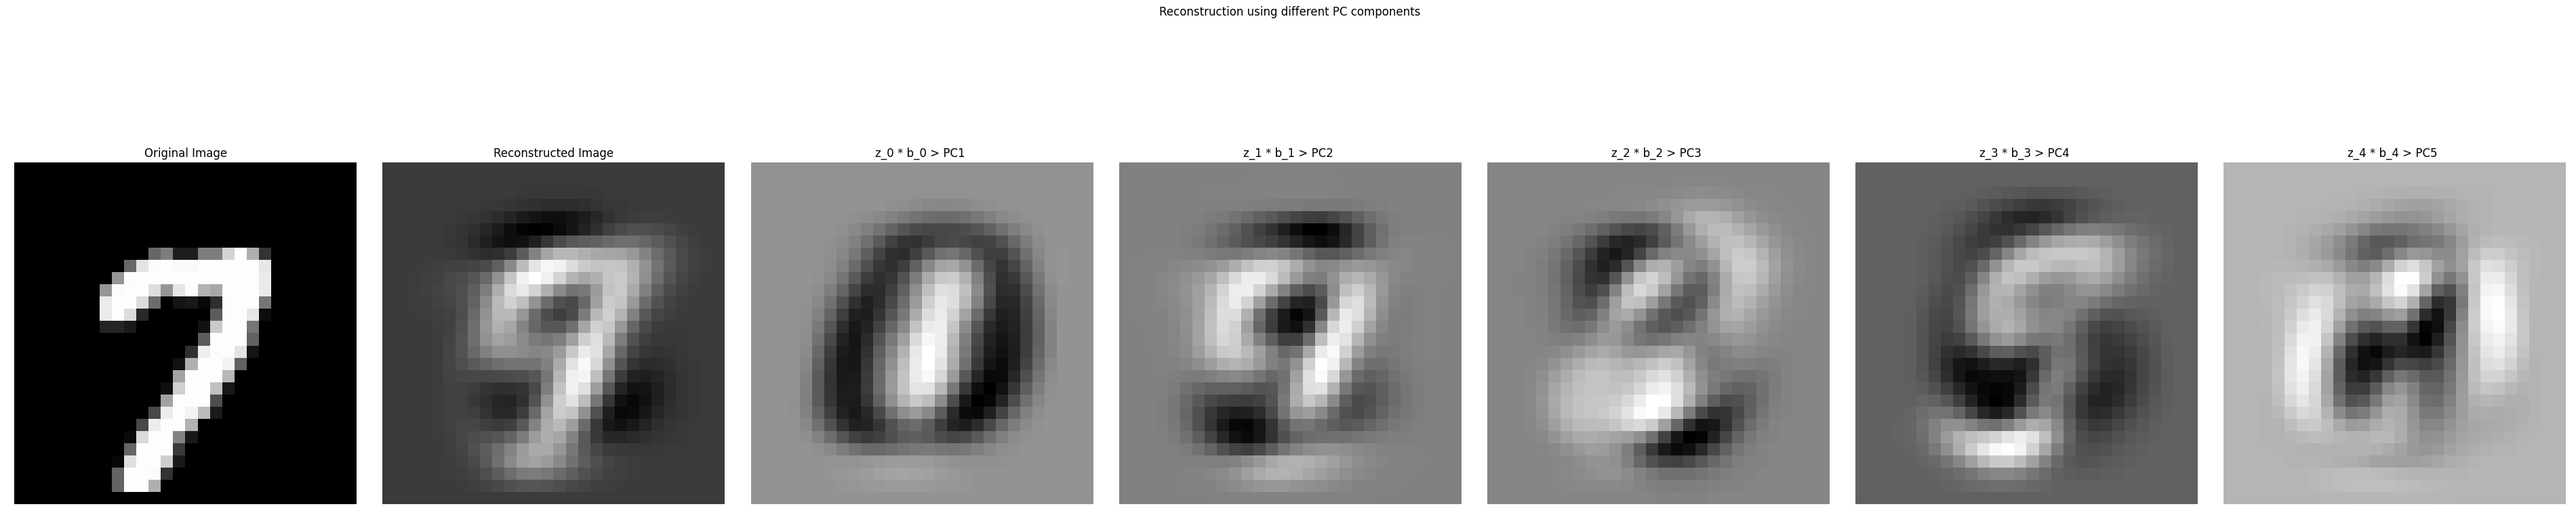
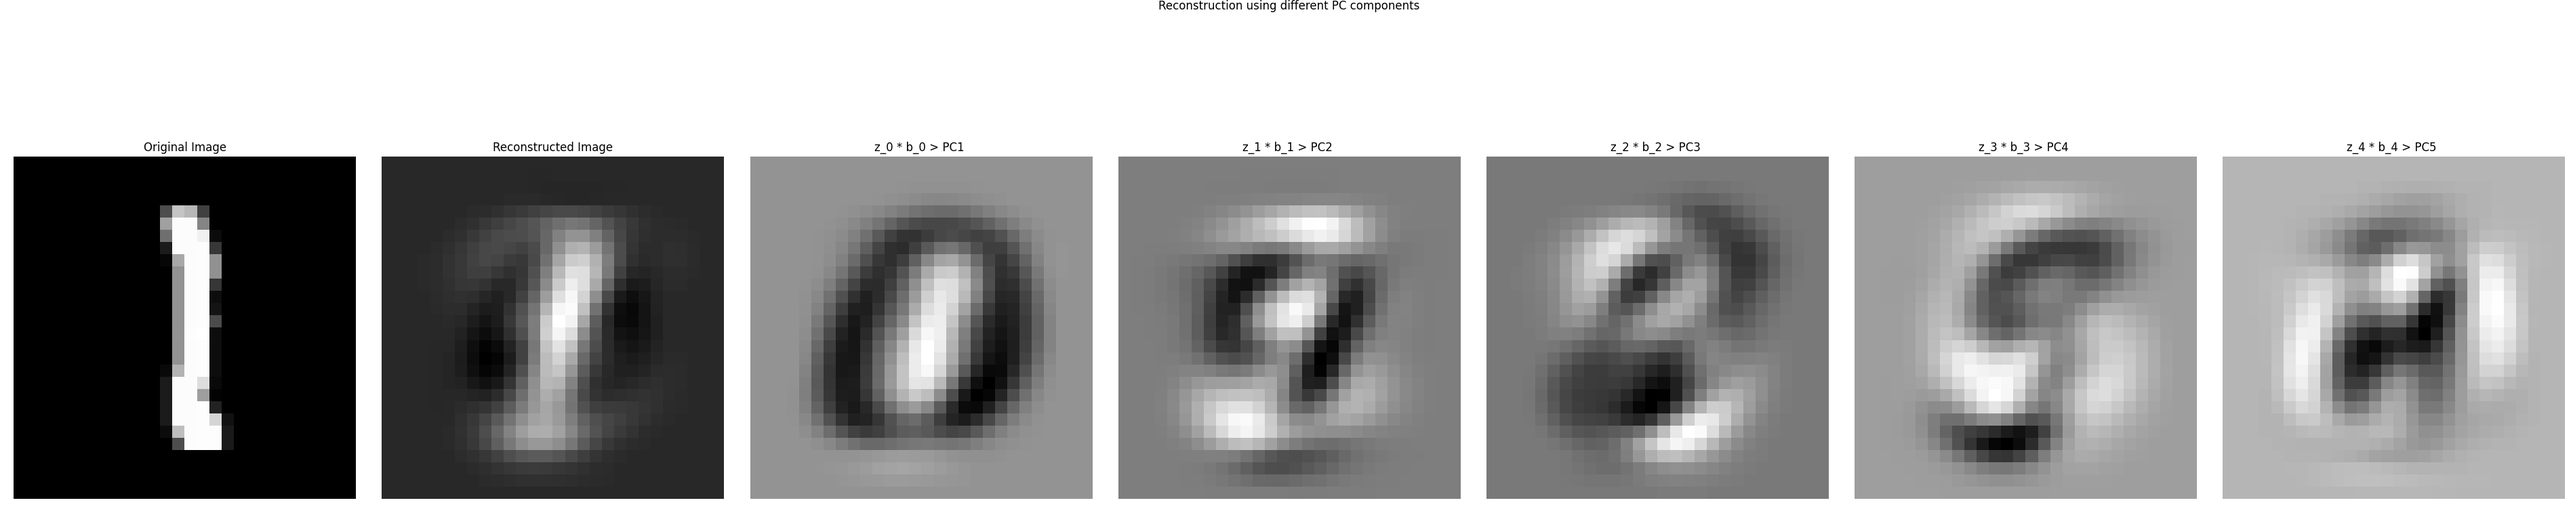
normalized the dataset and changed the J_M formula

diff --git a/PCA_MNIST_v2.py b/PCA_MNIST_v2.py
@@ -1,0 +1,274 @@
+import numpy as np
+import matplotlib.pyplot as plt
+from sklearn.datasets import fetch_openml
+
+def PCA(x, M):
+    cov_matrix = np.cov(x, rowvar=False) #Compute the covariance matrix
+    eigenvalues, eigenvectors = np.linalg.eigh(cov_matrix) # Eigenvalue decomposition
+    sorted_indices = np.argsort(eigenvalues)[::-1]  # Indices of eigenvalues in descending order
+    top_k_indices = sorted_indices[:M]  # Select the top-M indices
+    top_k_eigenvectors = eigenvectors[:, top_k_indices]  # Corresponding eigenvectors
+    
+    return top_k_eigenvectors
+
+######  Load the MNIST dataset
+print("Loading MNIST dataset...")
+mnist = fetch_openml('mnist_784', version=1)
+X = mnist.data/255  # Shape: (70000, 784)
+y = np.array(mnist.target.astype(int))  # Convert y to NumPy array and cast to integer
+
+X = np.asarray(X)
+# Use only the first 60,000 samples for training
+X_train = X[:60000]
+print("Dataset loaded. Shape of training data:", X_train.shape)
+#################################
+
+######  Data Processing
+# Center the data
+mean = np.mean(X_train, axis=0)  # Compute mean of each feature
+X_centered = X_train - mean  # Center the data
+#################################
+
+###### Solution 1-1:  TOP 5 Principle Components ######
+print("\n###### Solution 1-1:  TOP 5 Principle Components\n")
+M = 5  # Number of components to keep
+top_k_eigenvectors = PCA(X_centered, M)
+print(f"Top-{M} principal components selected.")
+
+print("Plotting the top 5 principal components...")
+fig, axes = plt.subplots(1, M, figsize=(15, 5))
+for i in range(M):
+    ax = axes[i]
+    eigenvector = top_k_eigenvectors[:, i]  # Get the i-th eigenvector
+    eigenvector_image = eigenvector.reshape(28, 28)  # Reshape to 28x28 image
+    ax.imshow(eigenvector_image, cmap='gray')  # Display as grayscale image
+    ax.set_title(f"PC_{i+1}")
+    ax.axis('off')  # Hide axes for better visualization
+plt.tight_layout()
+fig.suptitle("Top 5 Principle Components")
+plt.show()
+#############################################################
+
+###### Solution 1-2: Selecting one image and plotting values ######
+print("\n###### Solution 1-2:  Selecting one image and plotting values\n")
+# Randomly select one image from the training set (x_n)
+random_idx = np.random.randint(0, X_train.shape[0])  # Random index
+x_n = X_centered[random_idx]  # Selected image (centered)
+
+# Project x_n onto the top-5 eigenvectors to get z_n
+z_n = top_k_eigenvectors.T @ x_n
+print("(a) find z_n")
+print(z_n)
+# Reconstruct the image using the top-5 principal components
+x_tilde_n = top_k_eigenvectors @ z_n  # Reconstructed image
+
+# Plotting Original and reconstructed image
+fig, axes = plt.subplots(1, M+2, figsize=(15, 10))
+
+print("(b) Plot")
+# Plot original image
+axes[0].imshow((x_n+mean).reshape(28, 28), cmap='gray')
+axes[0].set_title("Original Image")
+axes[0].axis('off')
+
+# Plot reconstructed image
+axes[1].imshow((x_tilde_n+mean).reshape(28, 28), cmap='gray')
+axes[1].set_title("Reconstructed Image")
+axes[1].axis('off')
+
+# Plot the contributions of each principal component
+for i in range(M):
+    ax = axes[i+2]
+    # Plot the contribution of each principal component: z_i * b_i
+    contribution = z_n[i] * top_k_eigenvectors[:, i].reshape(28, 28)
+    ax.imshow(contribution, cmap='gray')
+    ax.set_title(f"z_{i} * b_{i} > PC{i+1} ")
+    ax.axis('off')
+
+fig.suptitle("Reconstruction using different PC components")
+plt.tight_layout()
+plt.show()
+
+# (c) Rconstruction error for one sample
+reconstruction_error = np.linalg.norm(x_n - x_tilde_n)
+
+input = x_n
+target = x_tilde_n
+squared_diff = (input - target) ** 2
+mean_reconstruction_error = np.mean(squared_diff)
+print(f"(c) Reconstruction error for the selected sample: {mean_reconstruction_error}")
+
+# (d) Reconstruction error for all training samples
+
+x_n = X_centered
+z_n = x_n @ top_k_eigenvectors
+x_tilde_n = z_n @ top_k_eigenvectors.T
+
+input = x_n
+target = x_tilde_n
+squared_diff = (input - target) ** 2
+mean_reconstruction_error = np.mean(squared_diff)
+
+print(f"(d) Mean reconstruction error over all training samples: {mean_reconstruction_error}")
+#######################################
+
+###### Solution 1-3: Reconstruction error with different number of components
+print("\nSolution 1-3: Reconstruction error with different number of components\n")
+print(f"(a) Randomly select 5 images and plot the reconstruction with M = [2, 5, 10, 20, 50, 200] ")
+M_list = np.array([2, 5, 10, 20, 50, 200])
+
+## Data
+X_train = X[:60000]
+mean = np.mean(X_train, axis=0)  # Compute mean of each feature
+X_centered = X_train - mean  # Center the data
+
+J_M = []
+
+fig, axes = plt.subplots(6, 10, figsize=(15, 10))
+
+random_images_idx = np.sort(np.random.randint(60000, size=(1, 5)))
+print(random_images_idx)
+
+for j in range(M_list.shape[0]):
+    M = M_list[j]  # Number of components to keep
+
+    top_k_eigenvectors = PCA(X_centered, M)
+
+    x_n = X_centered
+    z_n = x_n @ top_k_eigenvectors
+    x_tilde_n = z_n @ top_k_eigenvectors.T
+
+    for i in range(X_train.shape[0]):
+
+        if np.any(random_images_idx == i):
+            axes[j, int(np.where(random_images_idx == i)[1][0]) * 2].imshow((x_n[i] + mean).reshape(28, 28),
+                                                                            cmap='gray')
+            axes[j, int(np.where(random_images_idx == i)[1][0]) * 2].set_title("Original Image")
+            axes[j, int(np.where(random_images_idx == i)[1][0]) * 2].axis('off')
+
+            # Plot reconstructed image
+            axes[j, int(np.where(random_images_idx == i)[1][0]) * 2 + 1].imshow((x_tilde_n[i] + mean).reshape(28, 28),
+                                                                                cmap='gray')
+            axes[j, int(np.where(random_images_idx == i)[1][0]) * 2 + 1].set_title("Reconstructed Image")
+            axes[j, int(np.where(random_images_idx == i)[1][0]) * 2 + 1].axis('off')
+
+    input = x_n
+    target = x_tilde_n
+    squared_diff = (input - target) ** 2
+    mean_reconstruction_error = np.mean(squared_diff)
+    print(f"Mean reconstruction error for M = {M} is : {mean_reconstruction_error}")
+    J_M.append(mean_reconstruction_error)
+
+plt.tight_layout()
+plt.show()
+
+print(f" (b) plotting mean construction error")
+J_M_array = np.asarray(J_M)
+plt.plot(np.arange(J_M_array.shape[0]), J_M_array)
+plt.xlabel("M")
+plt.ylabel("J_M")
+plt.title("J_M at different M values [2, 5, 10, 20, 50, 200")
+tick_positions = np.arange(J_M_array.shape[0])
+# tick_labels = [f'{i}' for i in range(J_M_array.shape[0])]
+tick_labels = ["2", "5", "10", "20", "50", "200"]
+plt.xticks(tick_positions, tick_labels)
+plt.show()
+##########################################################################
+###### Solution 1-4: Reconstruction error of test dataset ######
+print("\nSolution 1-4: Reconstruction error of test dataset\n")
+X_train = X[:60000]
+mean = np.mean(X_train, axis=0)  # Compute mean of each feature
+X_centered = X_train - mean  # Center the data
+
+y_test = y[60000:]
+X_test = X[60000:]
+
+X_test_centered = X_test - np.mean(X_test, axis=0)
+
+J_M_test = []
+
+for j in range(M_list.shape[0]):
+    M = M_list[j]  # Number of components to keep
+    top_k_eigenvectors = PCA(X_centered, M)
+    x_n = X_test_centered
+    z_n = x_n @ top_k_eigenvectors
+    x_tilde_n = z_n @ top_k_eigenvectors.T
+
+    reconstruction_errors = np.linalg.norm((x_n) - (x_tilde_n), axis=1)
+
+    input = x_n
+    target = x_tilde_n
+    squared_diff = (input - target) ** 2
+    mean_reconstruction_error = np.mean(squared_diff)
+    print(f"Mean reconstruction error for M = {M} is : {mean_reconstruction_error}")
+
+    J_M_test.append(mean_reconstruction_error)
+
+print(f" (a) plotting mean construction error of test dataset")
+J_M_test_array = np.asarray(J_M_test)
+plt.plot(np.arange(J_M_test_array.shape[0]), J_M_test_array)
+plt.xlabel("M")
+plt.ylabel("J_M_test")
+plt.title("J_M_test at different M values [2, 5, 10, 20, 50, 200")
+tick_positions = np.arange(J_M_array.shape[0])
+tick_labels = ["2", "5", "10", "20", "50", "200"]
+plt.xticks(tick_positions, tick_labels)
+plt.show()
+
+print("(b) Comparison between J_M of training dataset and test dataset")
+
+plt.plot(np.arange(J_M_test_array.shape[0]), J_M_test_array, label="test")
+plt.plot(np.arange(J_M_array.shape[0]), J_M_array, label="training")
+plt.xlabel("M")
+plt.ylabel("J_M")
+plt.title("Comparison between J_M of training dataset and test dataset")
+tick_positions = np.arange(J_M_array.shape[0])
+tick_labels = ["2", "5", "10", "20", "50", "200"]
+plt.xticks(tick_positions, tick_labels)
+plt.legend()
+plt.show()
+#################################################################################
+
+
+###### Solution 1-5 2D Visualization ######
+
+print("###### Solution 1-5 2D Visualization")
+classes = [0, 1, 9]
+samples_per_class = 100
+
+indices = []
+for digit in classes:
+    digit_idxs = np.where(y == digit)[0]
+    sampled_indices = np.random.choice(digit_idxs, samples_per_class, replace=False)
+    indices.extend(sampled_indices)
+
+X_selected = X[indices]
+y_selected = y[indices]
+
+mean = np.mean(X_selected, axis=0)  # Compute the mean of each feature
+X_centered = X_selected - mean  # Center the data
+
+## Covariance Matrix -> Eigen Vectors -> Get desired Eigen Vectors
+top_2_eigenvectors  = PCA(X_centered, 2)
+
+## Get z_n for desired eigen vectors
+Z = X_centered @ top_2_eigenvectors
+print("Data projected onto 2D space.")
+
+## Plot
+plt.figure(figsize=(10, 8))
+
+colors = ['blue', 'brown', 'darkturquoise']
+labels = ['Digit 0', 'Digit 1', 'Digit 9']
+
+for i, digit in enumerate(classes):
+    class_indices = np.where(y_selected == digit)[0]
+    plt.scatter(Z[class_indices, 0], Z[class_indices, 1], label=labels[i], color=colors[i], alpha=0.6)
+
+plt.title("2D Visualization of MNIST using PCA", fontsize=20)
+plt.xlabel("Principal Component 1", fontsize=10)
+plt.ylabel("Principal Component 2", fontsize=10)
+plt.legend()
+plt.grid(True)
+plt.show()
+#####################################################################################
